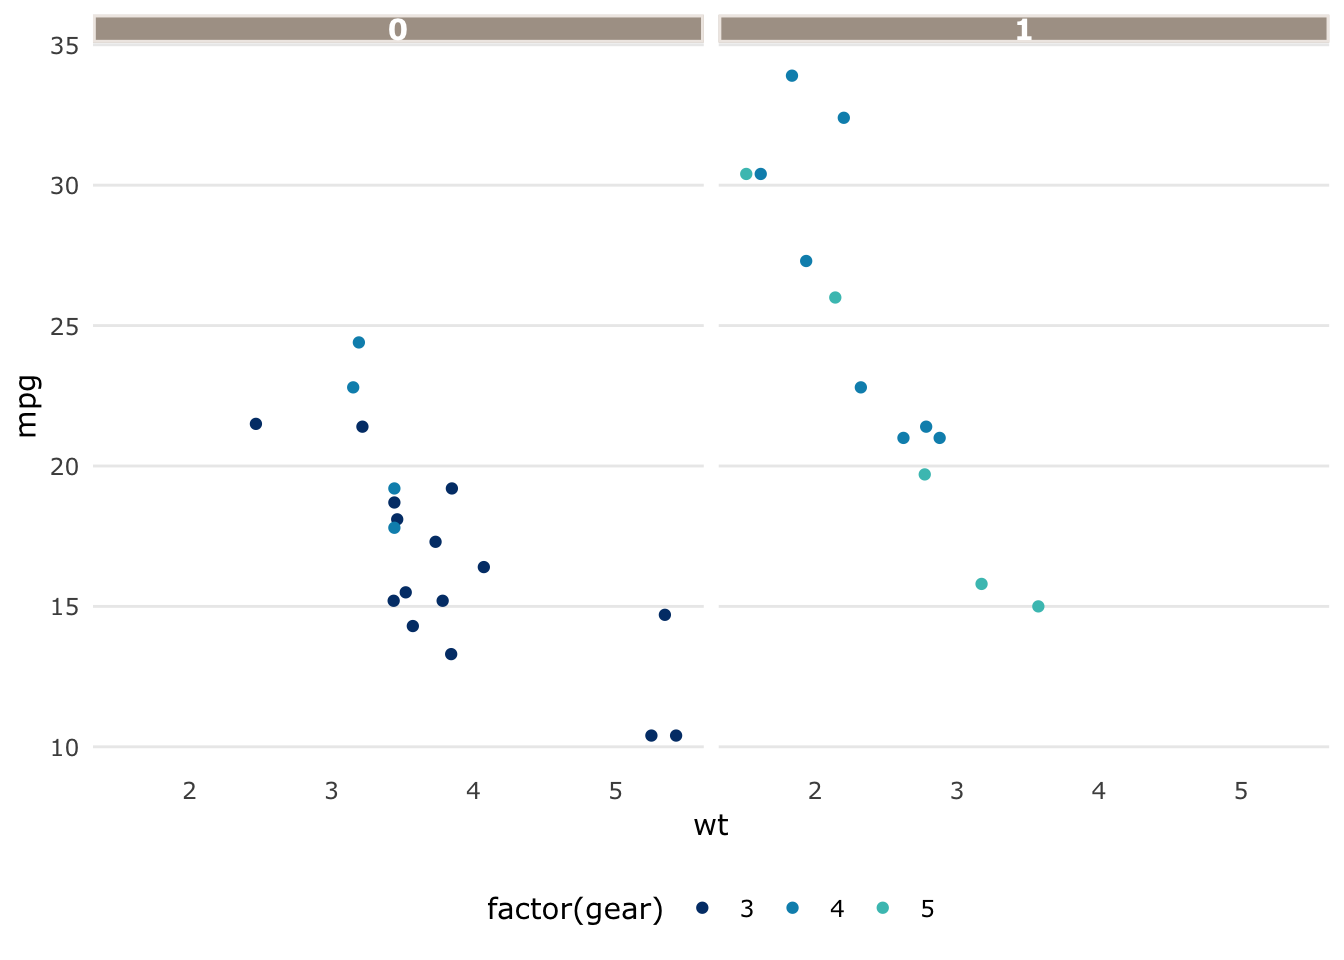
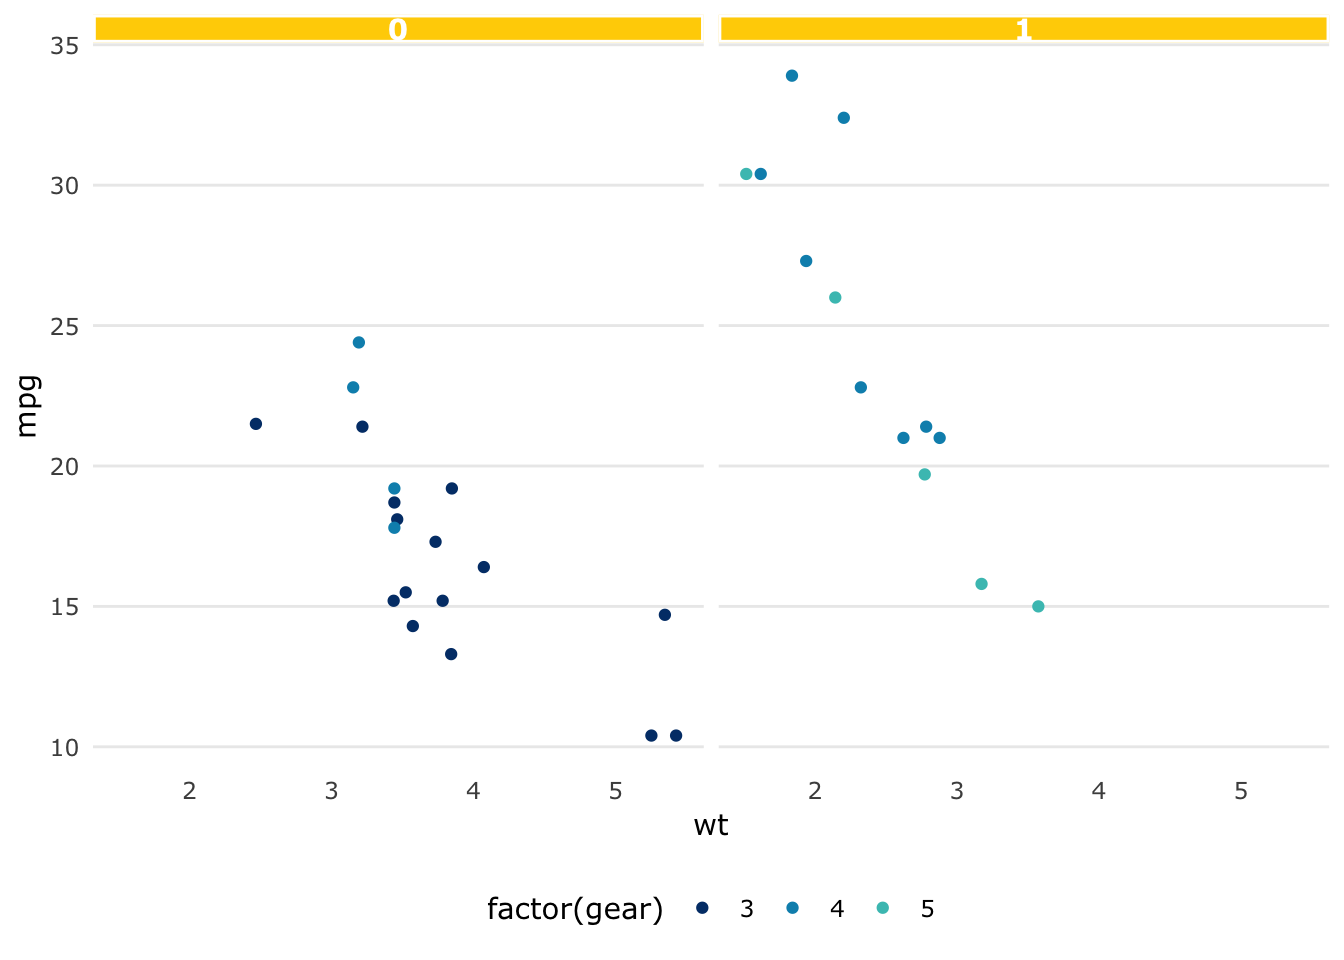
Use yellow for strip colour in facets to follow USQ presentation style

Changed region(s): [[0.0625, 0.0, 1.0, 0.0625]]

diff --git a/docs/reference/theme_usq.html b/docs/reference/theme_usq.html
@@ -147,27 +147,27 @@ presentation slides, <em>e.g.</em>, <code>theme_usq(base_size = 24)</code>.</p>
 <span class='fu'><a href='https://www.rdocumentation.org/packages/base/topics/library'>library</a></span>(<span class='no'>ggplot2</span>)
 
 <span class='co'># Discrete values</span>
-<span class='no'>p1</span> <span class='kw'>&lt;-</span> <span class='fu'><a href='https://ggplot2.tidyverse.org/reference/ggplot.html'>ggplot</a></span>(<span class='no'>mtcars</span>) +
-  <span class='fu'><a href='https://ggplot2.tidyverse.org/reference/geom_point.html'>geom_point</a></span>(<span class='fu'><a href='https://ggplot2.tidyverse.org/reference/aes.html'>aes</a></span>(
+<span class='no'>p1</span> <span class='kw'>&lt;-</span> <span class='fu'><a href='https://www.rdocumentation.org/packages/ggplot2/topics/ggplot'>ggplot</a></span>(<span class='no'>mtcars</span>) +
+  <span class='fu'><a href='https://www.rdocumentation.org/packages/ggplot2/topics/geom_point'>geom_point</a></span>(<span class='fu'><a href='https://www.rdocumentation.org/packages/ggplot2/topics/aes'>aes</a></span>(
     <span class='kw'>x</span> <span class='kw'>=</span> <span class='no'>wt</span>,
     <span class='kw'>y</span> <span class='kw'>=</span> <span class='no'>mpg</span>,
     <span class='kw'>colour</span> <span class='kw'>=</span> <span class='fu'><a href='https://www.rdocumentation.org/packages/base/topics/factor'>factor</a></span>(<span class='no'>gear</span>)
    )) +
   <span class='fu'><a href='scale_colour_usq.html'>scale_colour_usq</a></span>(<span class='st'>"primary"</span>) +
-  <span class='fu'><a href='https://ggplot2.tidyverse.org/reference/facet_wrap.html'>facet_wrap</a></span>(~ <span class='no'>am</span>) +
+  <span class='fu'><a href='https://www.rdocumentation.org/packages/ggplot2/topics/facet_wrap'>facet_wrap</a></span>(~ <span class='no'>am</span>) +
   <span class='fu'>theme_usq</span>()
 <span class='no'>p1</span></div><div class='img'><img src='theme_usq-1.png' alt='' width='700' height='433' /></div><div class='input'>
 <span class='co'># Continous values</span>
 <span class='no'>df</span> <span class='kw'>&lt;-</span> <span class='kw pkg'>reshape2</span><span class='kw ns'>::</span><span class='fu'><a href='https://www.rdocumentation.org/packages/reshape2/topics/melt'>melt</a></span>(<span class='fu'><a href='https://www.rdocumentation.org/packages/base/topics/outer'>outer</a></span>(<span class='fl'>1</span>:<span class='fl'>4</span>, <span class='fl'>1</span>:<span class='fl'>4</span>), <span class='kw'>varnames</span> <span class='kw'>=</span> <span class='fu'><a href='https://www.rdocumentation.org/packages/base/topics/c'>c</a></span>(<span class='st'>"X1"</span>, <span class='st'>"X2"</span>))
 
-<span class='no'>p2</span> <span class='kw'>&lt;-</span> <span class='fu'><a href='https://ggplot2.tidyverse.org/reference/ggplot.html'>ggplot</a></span>(<span class='no'>df</span>, <span class='fu'><a href='https://ggplot2.tidyverse.org/reference/aes.html'>aes</a></span>(<span class='no'>X1</span>, <span class='no'>X2</span>)) + <span class='fu'><a href='https://ggplot2.tidyverse.org/reference/geom_tile.html'>geom_tile</a></span>(<span class='fu'><a href='https://ggplot2.tidyverse.org/reference/aes.html'>aes</a></span>(<span class='kw'>fill</span> <span class='kw'>=</span> <span class='no'>value</span>)) +
+<span class='no'>p2</span> <span class='kw'>&lt;-</span> <span class='fu'><a href='https://www.rdocumentation.org/packages/ggplot2/topics/ggplot'>ggplot</a></span>(<span class='no'>df</span>, <span class='fu'><a href='https://www.rdocumentation.org/packages/ggplot2/topics/aes'>aes</a></span>(<span class='no'>X1</span>, <span class='no'>X2</span>)) + <span class='fu'><a href='https://www.rdocumentation.org/packages/ggplot2/topics/geom_tile'>geom_tile</a></span>(<span class='fu'><a href='https://www.rdocumentation.org/packages/ggplot2/topics/aes'>aes</a></span>(<span class='kw'>fill</span> <span class='kw'>=</span> <span class='no'>value</span>)) +
   <span class='fu'><a href='scale_fill_usq.html'>scale_fill_usq</a></span>(<span class='st'>"warm"</span>,
   <span class='kw'>discrete</span> <span class='kw'>=</span> <span class='fl'>FALSE</span>)
-<span class='no'>p3</span> <span class='kw'>&lt;-</span> <span class='no'>p2</span> + <span class='fu'><a href='https://ggplot2.tidyverse.org/reference/geom_point.html'>geom_point</a></span>(<span class='fu'><a href='https://ggplot2.tidyverse.org/reference/aes.html'>aes</a></span>(<span class='kw'>size</span> <span class='kw'>=</span> <span class='no'>value</span>)) +
+<span class='no'>p3</span> <span class='kw'>&lt;-</span> <span class='no'>p2</span> + <span class='fu'><a href='https://www.rdocumentation.org/packages/ggplot2/topics/geom_point'>geom_point</a></span>(<span class='fu'><a href='https://www.rdocumentation.org/packages/ggplot2/topics/aes'>aes</a></span>(<span class='kw'>size</span> <span class='kw'>=</span> <span class='no'>value</span>)) +
   <span class='fu'>theme_usq</span>()
 <span class='no'>p3</span></div><div class='img'><img src='theme_usq-2.png' alt='' width='700' height='433' /></div><div class='input'>
 <span class='co'># Larger base size for presentation slides</span>
-<span class='no'>p4</span> <span class='kw'>&lt;-</span> <span class='no'>p3</span> + <span class='fu'><a href='https://ggplot2.tidyverse.org/reference/geom_point.html'>geom_point</a></span>(<span class='fu'><a href='https://ggplot2.tidyverse.org/reference/aes.html'>aes</a></span>(<span class='kw'>size</span> <span class='kw'>=</span> <span class='no'>value</span>)) +
+<span class='no'>p4</span> <span class='kw'>&lt;-</span> <span class='no'>p3</span> + <span class='fu'><a href='https://www.rdocumentation.org/packages/ggplot2/topics/geom_point'>geom_point</a></span>(<span class='fu'><a href='https://www.rdocumentation.org/packages/ggplot2/topics/aes'>aes</a></span>(<span class='kw'>size</span> <span class='kw'>=</span> <span class='no'>value</span>)) +
   <span class='fu'>theme_usq</span>(<span class='kw'>base_size</span> <span class='kw'>=</span> <span class='fl'>24</span>)
 <span class='no'>p4</span></div><div class='img'><img src='theme_usq-3.png' alt='' width='700' height='433' /></div><div class='input'>
 </div></pre>

diff --git a/docs/articles/theme.usq.html b/docs/articles/theme.usq.html
@@ -74,7 +74,7 @@
       <h1>theme.usq</h1>
                         <h4 class="author">Adam H Sparks</h4>
             
-            <h4 class="date">2019-02-15</h4>
+            <h4 class="date">2019-04-02</h4>
       
       <small class="dont-index">Source: <a href="https://github.com/adamhsparks/theme.usq/blob/master/vignettes/theme.usq.Rmd"><code>vignettes/theme.usq.Rmd</code></a></small>
       <div class="hidden name"><code>theme.usq.Rmd</code></div>
